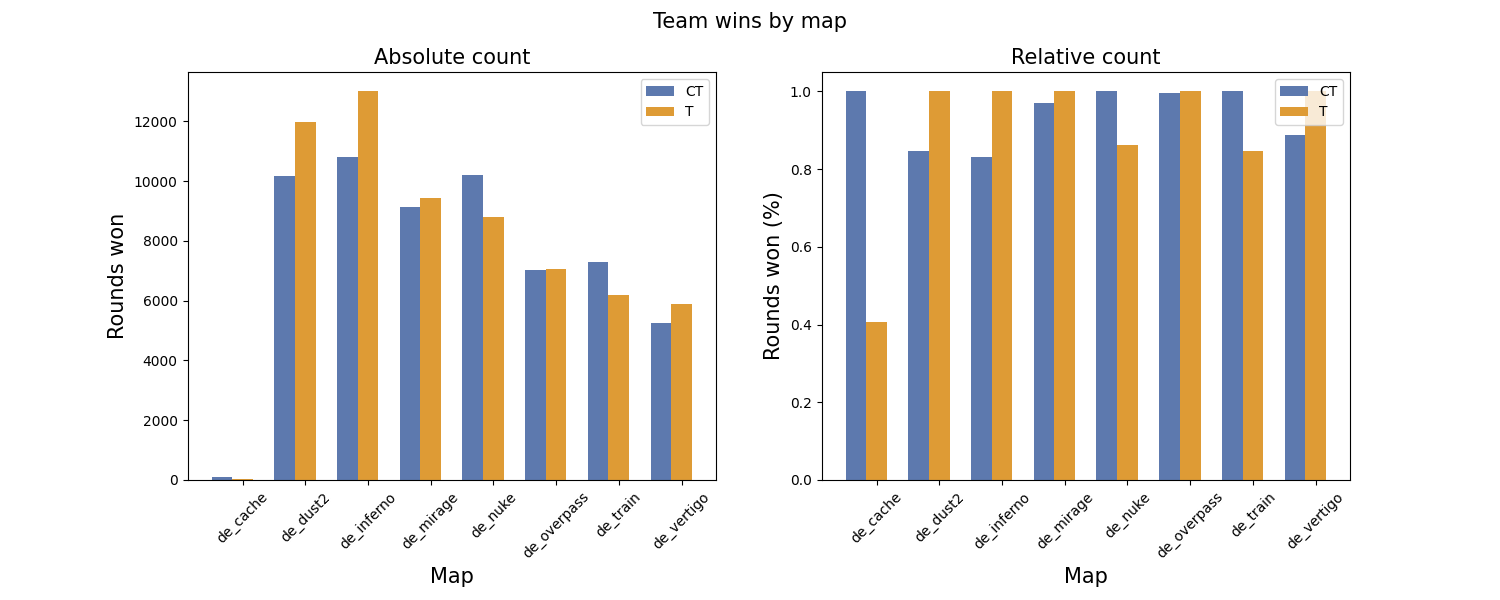
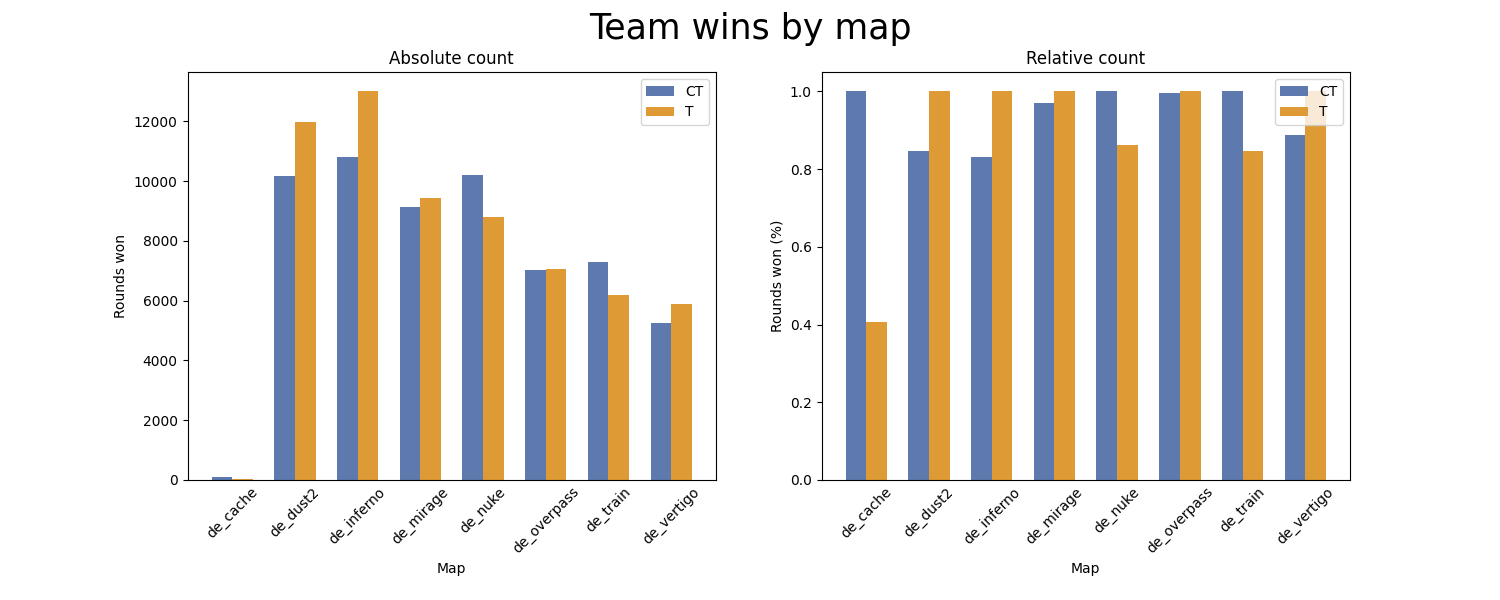
improve x axis labels

diff --git a/10_map_win_by_team.py b/10_map_win_by_team.py
@@ -23,7 +23,7 @@ for g_map in df_grouped['map'].unique():
 bar_width = 0.33
 # initialize a figure
 fig, (ax1, ax2) = plt.subplots(1, 2, figsize=(15, 6))
-fig.suptitle('Team wins by map', fontsize=15)
+fig.suptitle('Team wins by map', fontsize=25)
 plt.subplots_adjust(bottom=0.2)
 
 # fig = plt.figure(figsize=(12, 8))
@@ -35,27 +35,29 @@ ct_wins_rel = df_grouped_rel.loc[df_grouped_rel['round_winner'] == 'CT', 'wins']
 t_wins_rel = df_grouped_rel.loc[df_grouped_rel['round_winner'] == 'T', 'wins'].tolist()
 
 # get positioning of teams on plot x-axis
-x_ct = list(range(len(ct_wins)))
+x_ct = [x+bar_width/2 for x in range(len(ct_wins))]
 x_t = [x + bar_width for x in x_ct]
 
 # plot bars - absolute count
 ax1.bar(x_ct, ct_wins, color='#5d79ae', width=bar_width, label='CT')
 ax1.bar(x_t, t_wins, color='#de9b35', width=bar_width, label='T')
 # Add labels
-ax1.set_title('Absolute count', fontsize=15)
-ax1.set_xlabel('Map', fontsize=15)
-ax1.set_ylabel('Rounds won', fontsize=15)
-ax1.set_xticks([x + bar_width for x in range(len(ct_wins))], df_grouped.loc[df_grouped['round_winner'] == 'CT', 'map'].tolist(), rotation = 45)
+ax1.set_title('Absolute count')
+ax1.set_xlabel('Map')
+ax1.set_ylabel('Rounds won')
+ax1.set_xticks([x + bar_width for x in range(len(ct_wins))], df_grouped.loc[df_grouped['round_winner'] == 'CT', 'map'].tolist(), rotation=45)
+ax1.tick_params(axis='x', which='major', length=0)
 ax1.legend()
 
 # plot bars - relative count
 ax2.bar(x_ct, ct_wins_rel, color='#5d79ae', width=bar_width, label='CT')
 ax2.bar(x_t, t_wins_rel, color='#de9b35', width=bar_width, label='T')
 # Add labels
-ax2.set_title('Relative count', fontsize=15)
-ax2.set_xlabel('Map', fontsize=15)
-ax2.set_ylabel('Rounds won (%)', fontsize=15)
-ax2.set_xticks([x + bar_width for x in range(len(ct_wins))], df_grouped_rel.loc[df_grouped_rel['round_winner'] == 'CT', 'map'].tolist(), rotation = 45)
+ax2.set_title('Relative count')
+ax2.set_xlabel('Map')
+ax2.set_ylabel('Rounds won (%)')
+ax2.set_xticks([x + bar_width for x in range(len(ct_wins))], df_grouped_rel.loc[df_grouped_rel['round_winner'] == 'CT', 'map'].tolist(), rotation=45)
+ax2.tick_params(axis='x', which='major', length=0)
 ax2.legend()
 
 fig.savefig('./outputs/wins_by_map.png')
